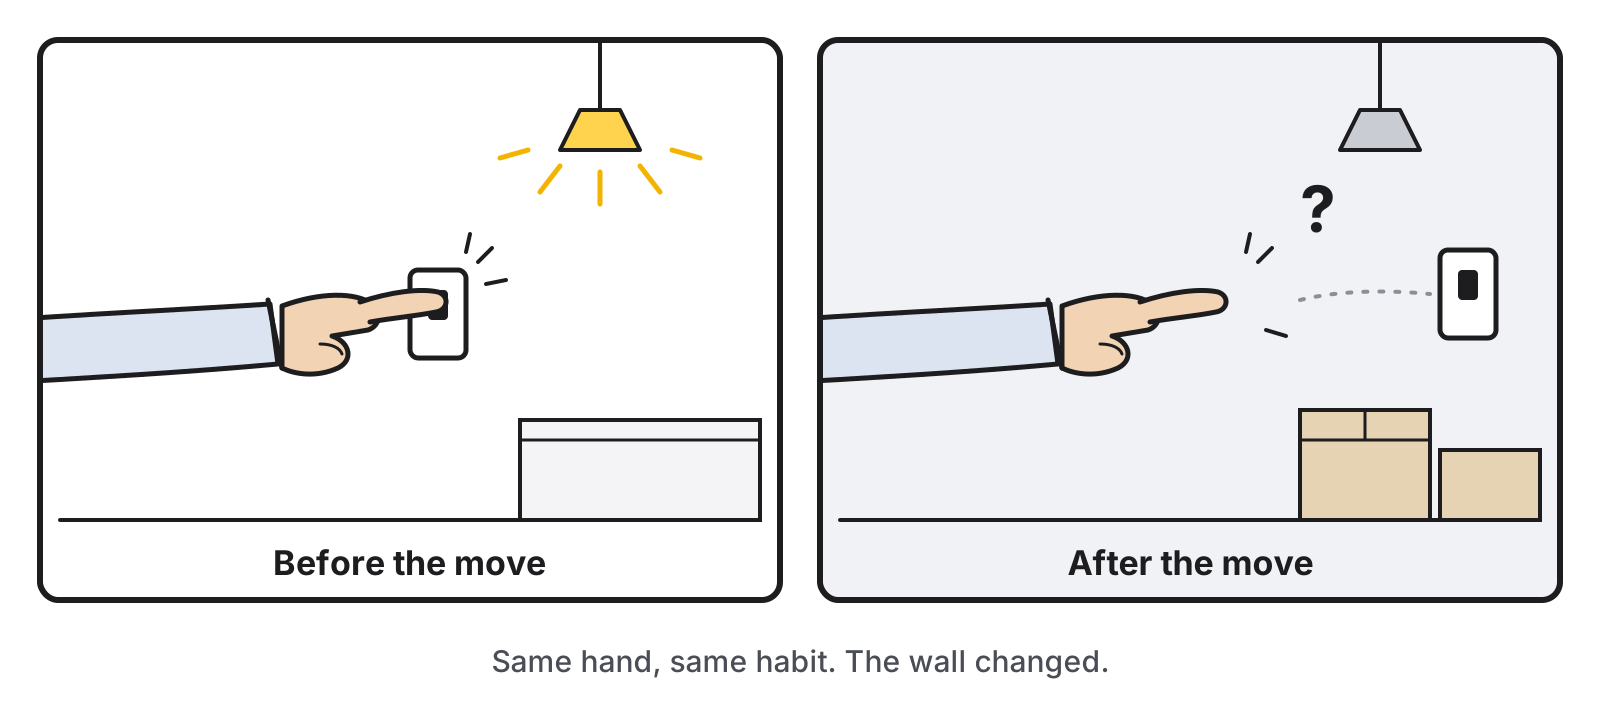
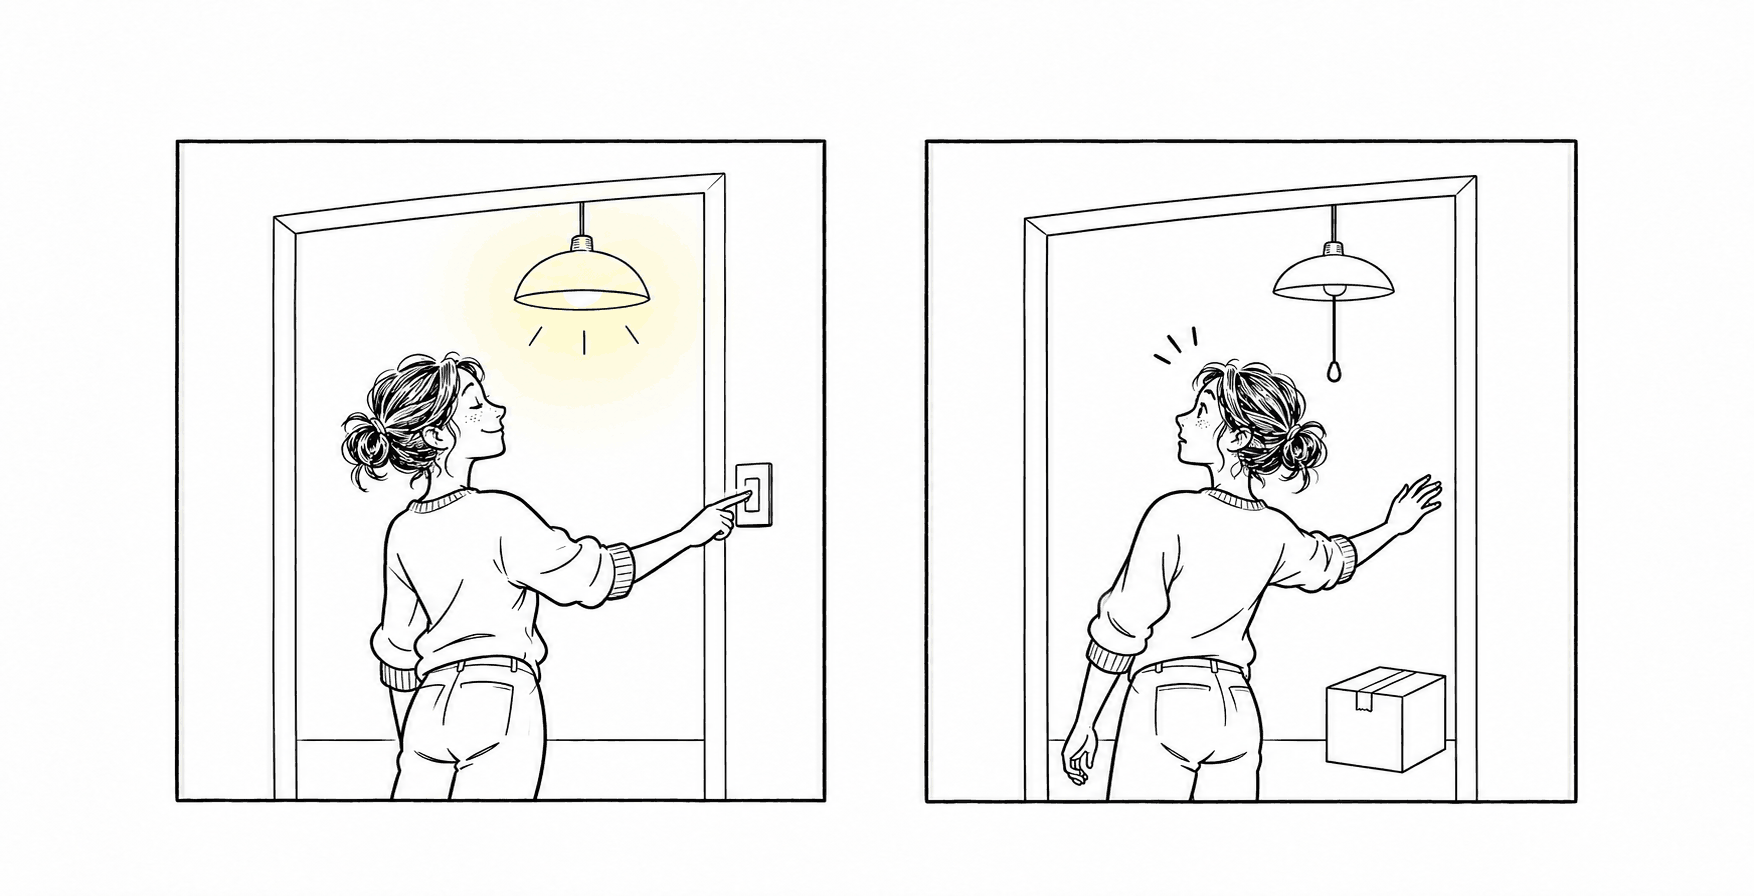
Swap in the final kitchen comic and drop the redraw note

Changed region(s): [[0.0, 0.0306, 1.0, 0.9472]]

diff --git a/blog/index.html b/blog/index.html
@@ -171,8 +171,8 @@ input[type=range] { width: 100%; accent-color: var(--accent); }
       <p>This is a bargain, and mostly a good one. Recalling is cheaper than working things out again. But it only pays when the memory belongs to the situation you're in. Move house, and for a week your hand still reaches for a switch that is now a blank wall. The memory was accurate. It was just written for a different kitchen.</p>
 
     <figure class="l-page">
-      <img src="kitchen.png" alt="Two comic panels. Before the move, a hand flips a light switch and the lamp turns on. After the move, the same hand presses a blank wall while the switch now sits further along it." width="1600" height="720">
-      <figcaption><b>Figure 1</b>Most of what you do in a familiar room is memory, not sight. First pass, to be redrawn.</figcaption>
+      <img src="kitchen.png" alt="Two comic panels. In the first, a person flips a wall switch and the ceiling lamp lights up. In the second, in a new home with a moving box on the floor, the same person presses a blank wall and the lamp stays dark, because here it has a pull cord." width="1754" height="896">
+      <figcaption><b>Figure 1</b>Most of what you do in a familiar room is memory, not sight.</figcaption>
     </figure>
 
     
@@ -345,7 +345,7 @@ input[type=range] { width: 100%; accent-color: var(--accent); }
       <p><strong>What we do not claim.</strong> On the context axis we did not test whether reused memory changes task success. We did not test what happens when memory is reused again and again across many handoffs. And we did not measure how much time or money reuse saves. Those are the next questions.</p>
 
       <h2>What this means if you build agents</h2>
-      <p>Back to the kitchen. The light switch moved, and your hand still goes to the old wall. Most of the time the room is the same and your memory serves you fine. The mistakes happen at the edges, right where something changed.</p>
+      <p>Back to the kitchen. The switch is gone, and your hand still goes to the old wall. Most of the time the room is the same and your memory serves you fine. The mistakes happen at the edges, right where something changed.</p>
       <p>Reused model memory behaves the same way. If the same model wrote it, most of it is still good, and the errors cluster at the seams. That suggests three habits.</p>
       <ul class="habits">
         <li><strong>Measure your reuse margin offline.</strong> The Oracle needs a fresh reference, so it is an evaluation step, not a cheap check to run in production. Use it to learn how far your reuse sits from the tolerance, not just whether it passes.</li>
